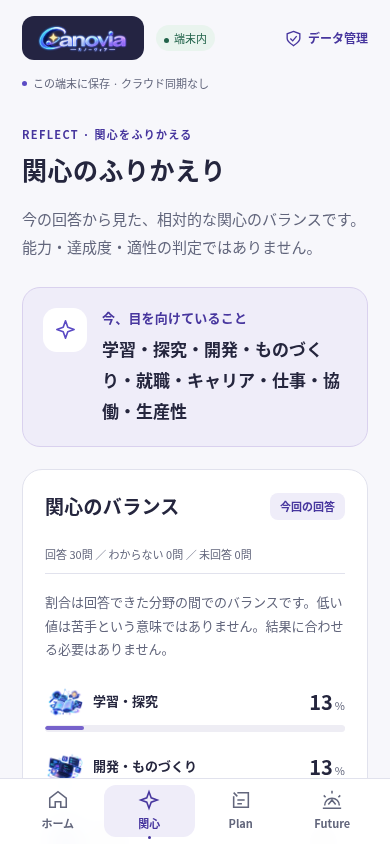
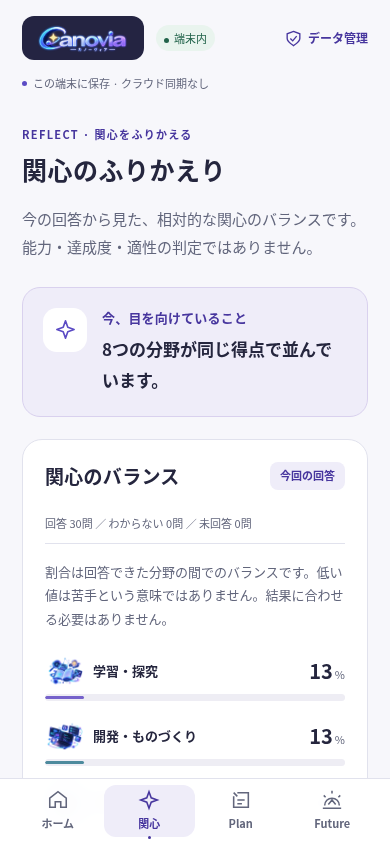
docs: finalize UI evidence, tied-score review and reproduction commands [skip ci]

diff --git a/docs/reviews/local-b-ui/README.md b/docs/reviews/local-b-ui/README.md
@@ -22,10 +22,32 @@
 | 起動失敗 | — | [保存領域を開けない場合のSTOP](after-error.png) |
 | 幅の違い | — | [320px](after-home-320.png)・[1280px](after-home-desktop.png) |
 
-撮影はloopback配信の実アプリをLinux Chromium 154 / Playwrightで操作したものです。合成の診断・Planのみ。390×844px（小幅320、desktop1280×900を除く）。画像モックではありません。Afterの製品Sourceは `867817d9dc7c6cff272f2360b50f59ccc407a77b`、Beforeは `ed6a18a63dac1efbba81999fa0a9611f1c3be104`。比較シートはブラウザで原寸画像を縮小配置して撮影しています。画像ファイル自体は個別の原スクリーンショットです。
+撮影はloopback配信の実アプリをLinux Chromium 154 / Playwrightで操作したものです。合成の診断・Planのみ。390×844px（小幅320、desktop1280×900を除く）。画像モックではありません。Afterの製品Sourceは `f8d514b88d5b038133e712ba458126541948099f`、Beforeは `ed6a18a63dac1efbba81999fa0a9611f1c3be104`。比較シートはブラウザで原寸画像を縮小配置して撮影しています。画像ファイル自体は個別の原スクリーンショットです。
 
 Beforeの診断は初回ページで1回答を選択中、結果は30回答済み、Planは合成の保存済み1件です。AfterのHome/診断/空Planは新規の検証用context、保存済みHome/結果/Planは旧UIと同じ専用persistent profile・Originの記録です。起動失敗は新規contextでIndexedDB openだけを合成例外にした負例です。実際のiPhone画面・Safari受入証拠として扱わないでください。
 
 ローカルテストは採点/JSONのpure10件、PHP133ケース一致、B/C browser回帰、mobile追加回帰、配布12件・Render計画11件がPASS。主要6画面のaxe検出違反0は限定的な自動検査です。再現コマンド・hash・未検証範囲は§19参照。GitHub Actionsは無料枠の都合で未実行。Safari/WKWebView、VoiceOver、native Files、iOS upgradeは未検証です。
 
 新UI採否決定まではiOS pin/HTML/hash、iOS #20/#22、mainを変更しません。採用後のCIとiOS取込は別工程です。`PRODUCTION_NO_GO_HOLD` / `release_approved=false`。
+
+## ローカル再現
+
+専用clean checkoutと新規の一時出力先を用います。PHPはLaravel/bootstrap/DBを起動しないpure scriptだけを実行。Playwright 1.56.1とbrowserは検証環境側に用意します。system Chromium使用時のみ `CANOVIA_BROWSER_EXECUTABLE_PATH` を指定できます。公開用wrapperや実Originは使いません。
+
+```sh
+PREP_UI_TMP=$(mktemp -d)
+php scripts/ci/preparation_static_data.php --data > "$PREP_UI_TMP/data.mjs"
+cmp preparation-local/src/data.mjs "$PREP_UI_TMP/data.mjs"
+php scripts/ci/preparation_static_data.php --vectors > "$PREP_UI_TMP/vectors.json"
+PREPARATION_VECTOR_PATH="$PREP_UI_TMP/vectors.json" node preparation-local/test/core.test.mjs
+node preparation-local/test/backup.test.mjs
+python3 -B scripts/ci/preparation_static_build.py --out "$PREP_UI_TMP/B"
+python3 -B scripts/ci/preparation_static_build.py --profile C --out "$PREP_UI_TMP/C"
+python3 -B scripts/ci/preparation_static_security_test.py
+python3 -B scripts/ci/preparation_static_render_test.py
+PREPARATION_DIRECTORY="$PREP_UI_TMP/B" PREPARATION_VECTOR_PATH="$PREP_UI_TMP/vectors.json" BROWSER_ENGINE=chromium node tests/browser/preparation_static.mjs
+PREPARATION_DIRECTORY="$PREP_UI_TMP/C" PREPARATION_VECTOR_PATH="$PREP_UI_TMP/vectors.json" BROWSER_ENGINE=chromium node tests/browser/preparation_static.mjs
+PREPARATION_DIRECTORY="$PREP_UI_TMP/B" BROWSER_ENGINE=chromium node tests/browser/preparation_mobile_ui.mjs
+```
+
+最後のUI検査に `AXE_SOURCE=/absolute/path/to/axe.min.js` を渡すと同じ自動a11y検査を追加できます。今回は検証環境のaxe-core 4.11.0を使用。製品に同梱しません。WebKit実行stepはCIに残していますが、今回の環境にWebKit binaryがなく、ダウンロード先も許可対象外のため実行していません。Chromiumを代用してWebKit PASSと記録しません。
